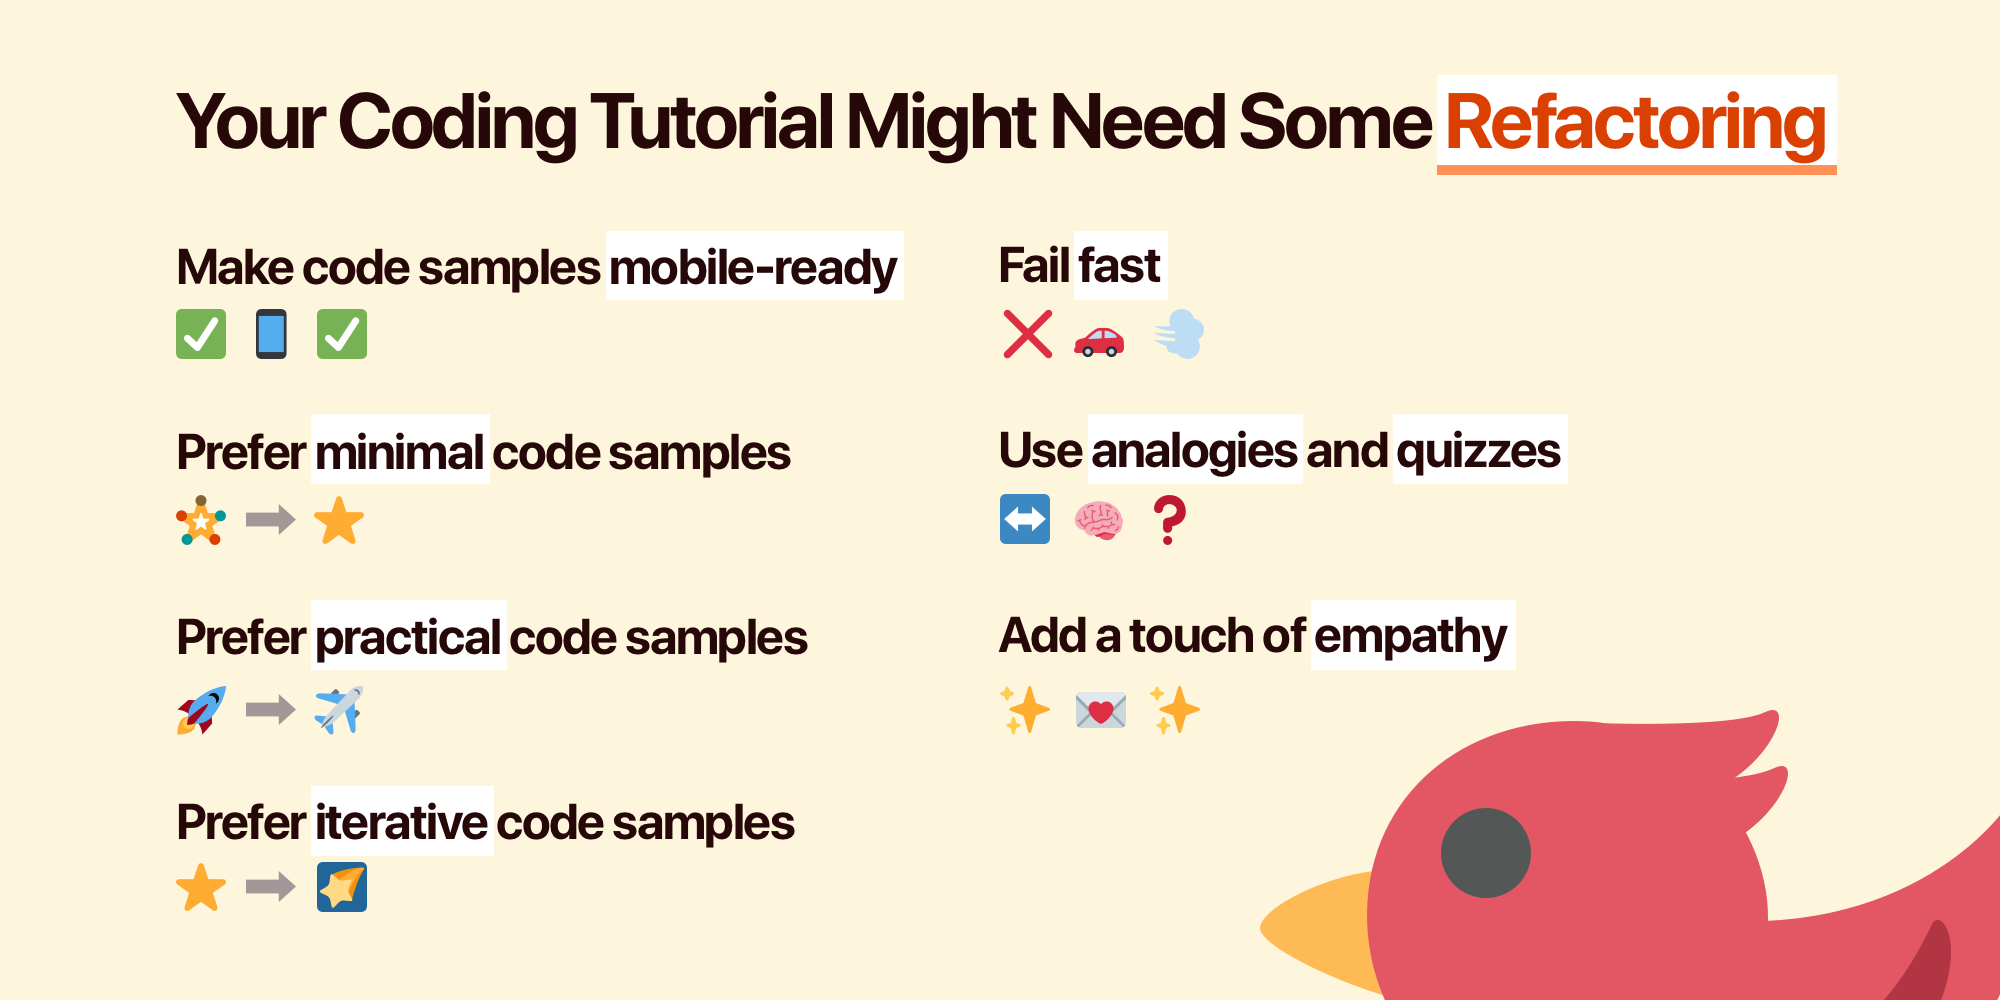
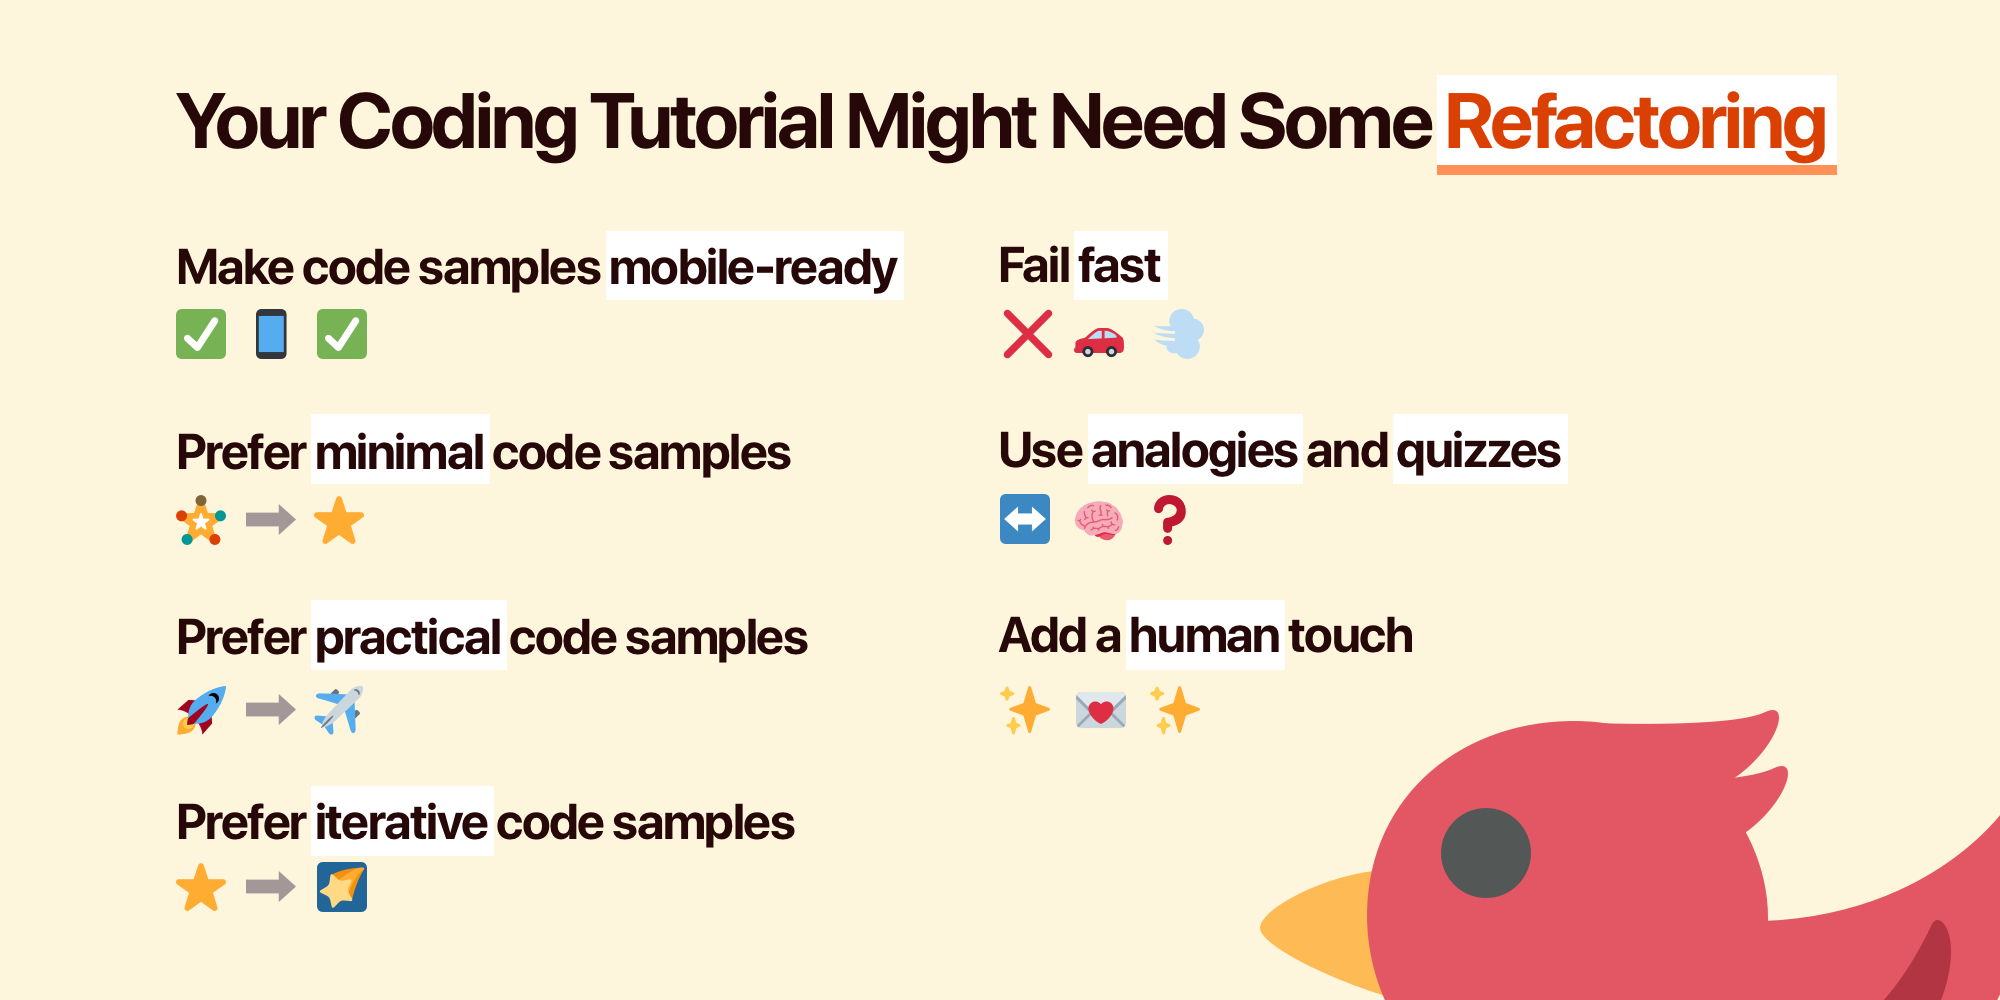
Finish tip 3

Changed region(s): [[0.558, 0.589, 0.775, 0.682]]

diff --git a/src/pages/refactor.tsx b/src/pages/refactor.tsx
@@ -79,15 +79,7 @@ const techniques = [
   {
     title: (
       <>
-        Use <Highlight>arrows</Highlight> and <Highlight>faces</Highlight>
-      </>
-    ),
-    emojis: ['scaryCat', 'singleArrow', 'heartCat']
-  },
-  {
-    title: (
-      <>
-        Add a touch of <Highlight>empathy</Highlight>
+        Add a <Highlight>human</Highlight> touch
       </>
     ),
     emojis: ['sparkles', 'heartLetter', 'sparkles']
@@ -96,7 +88,7 @@ const techniques = [
 
 const RefactorSubtitle = ({ index }: { index: number }) => (
   <ForegroundHighlight color="gray">
-    Refactoring Tip <ForegroundHighlight>{index + 1}</ForegroundHighlight> of 8:
+    Refactoring Tip <ForegroundHighlight>{index + 1}</ForegroundHighlight> of 7:
   </ForegroundHighlight>
 )
 
@@ -163,7 +155,7 @@ const Page = () => (
               </Highlight>{' '}
             </P>
             <P>
-              So, in this article, I’ll share <strong>eight</strong> tips on
+              So, in this article, I’ll share <strong>seven</strong> tips on
               refactoring coding tutorials. I’ve used these techniques on my own
               tutorials to make them more reader-friendly. Here’s the list:
             </P>
@@ -714,18 +706,6 @@ const Page = () => (
               . There’s no good reason why this API should exist.
             </P>
             <P>
-              It <em>could</em> have been useful if you could pass both a{' '}
-              <Code>number</Code> and a <Code>string</Code>, and have it repeat
-              the string the specified number of times (see below). But that’s
-              not what we have.
-            </P>
-            <CodeBlock
-              snippet={snippets.bxzx}
-              shouldHighlight={(lineIndex, tokenIndex) =>
-                lineIndex === 3 && tokenIndex >= 6 && tokenIndex <= 9
-              }
-            />
-            <P>
               <strong>The bottom line:</strong>{' '}
               <Code>padLeft(value, padding)</Code> is useful if{' '}
               <Code>padding</Code> is <Code>number</Code> but is{' '}
@@ -744,10 +724,88 @@ const Page = () => (
                 come up with a <em>practical</em> code sample where{' '}
                 <strong>X</strong> is <em>actually</em> useful in solving the
                 problem.
+              </Highlight>
+            </P>
+            <P>
+              By showing a practical example,{' '}
+              <Highlight>
+                readers will understand why <strong>X</strong> is worth
+                learning.
               </Highlight>{' '}
+              If you show them a useless example, they’d be like,{' '}
+              <em>
+                “What’s the point of learning <strong>X</strong>?”
+              </em>
+            </P>
+            <P>
+              <strong>Example:</strong> If I were to explain how to use{' '}
+              <Code>number | string</Code> in TypeScript, instead of the earlier{' '}
+              <Code>padLeft()</Code> example, I would use the following{' '}
+              <Code>
+                <strong>paddingLeftCss()</strong>
+              </Code>{' '}
+              function:
+            </P>
+            <CodeBlock snippet={snippets.hfdq} />
+            <P>
+              <Code>paddingLeftCss()</Code> can take a <Code>number</Code> or{' '}
+              <Code>string</Code>:
+            </P>
+            <Ul>
+              <UlLi>
+                If it’s <Code>number</Code>, it returns{' '}
+                <Code>padding-left</Code> CSS that’s a multiple of a predefined
+                spacing unit. In this case, <Code>1 = 0.25rem</Code>,{' '}
+                <Code>2 = 0.5rem</Code>, etc. This would be helpful for visual
+                consistency when designing UI.
+              </UlLi>
+              <UlLi>
+                If it’s <Code>string</Code>, it just uses that string as{' '}
+                <Code>padding-left</Code>.
+              </UlLi>
+            </Ul>
+            <P>
+              This is similar to how UI libraries like{' '}
+              <A href="https://github.com/styled-system/styled-system">
+                styled-system
+              </A>{' '}
+              work. In other words, it’s a <strong>practical</strong> example.{' '}
+              <Highlight>
+                It <em>actually makes sense</em> to have the parameter be either{' '}
+                <Code>number</Code> or <Code>string</Code>,
+              </Highlight>{' '}
+              unlike the previous example.
+            </P>
+            <Hr />
+            <P>
+              <strong>To summarize, always ask yourself:</strong>{' '}
+              <Highlight>
+                Is my code example practical? Would anyone ever write code like
+                this?
+              </Highlight>
             </P>
           </>
-        )
+        ),
+        footer: {
+          content: (
+            <>
+              <P>
+                <Code color="white75">padLeft()</Code> <em>could</em> have been
+                useful if you could pass both a{' '}
+                <Code color="white75">number</Code> and a{' '}
+                <Code color="white75">string</Code>, and have it repeat the
+                string the specified number of times (see below). But that’s not
+                what we had.
+              </P>
+              <CodeBlock
+                snippet={snippets.bxzx}
+                shouldHighlight={(lineIndex, tokenIndex) =>
+                  lineIndex === 3 && tokenIndex >= 6 && tokenIndex <= 9
+                }
+              />
+            </>
+          )
+        }
       },
       {
         ...refactoringCardProps(3),
@@ -893,14 +951,6 @@ const Page = () => (
         content: (
           <>
             <EmojiSeparator emojis={techniques[6].emojis} />
-          </>
-        )
-      },
-      {
-        ...refactoringCardProps(7),
-        content: (
-          <>
-            <EmojiSeparator emojis={techniques[7].emojis} />
           </>
         )
       }

diff --git a/src/lib/snippets.ts b/src/lib/snippets.ts
@@ -482,6 +482,23 @@ padLeft('Hello world', 'Jim: ')
 
 // Ask yourself: Would you EVER do this?`
 
+export const hfdq = `function paddingLeftCss(val: number | string) {
+  if (typeof val === 'number') {
+    return \`padding-left: \${val * 0.25}rem;\`
+  } else {
+    return \`padding-left: \${val};\`
+  }
+}
+
+// padding-left: 0.25rem;
+paddingLeftCss(1)
+
+// padding-left: 0.5rem;
+paddingLeftCss(2)
+
+// padding-left: 10%;
+paddingLeftCss('10%')`
+
 export const mvsz = `function makePair<F extends number | string, S extends boolean | F>() {}`
 
 export const zgvn = `type Todo = Readonly<{ id: number; text: string; done: boolean; place: Place }>`

diff --git a/snippets/snippets/refactor/hfdq.ts b/snippets/snippets/refactor/hfdq.ts
@@ -1,0 +1,16 @@
+function paddingLeftCss(val: number | string) {
+  if (typeof val === 'number') {
+    return `padding-left: ${val * 0.25}rem;`
+  } else {
+    return `padding-left: ${val};`
+  }
+}
+
+// padding-left: 0.25rem;
+paddingLeftCss(1)
+
+// padding-left: 0.5rem;
+paddingLeftCss(2)
+
+// padding-left: 10%;
+paddingLeftCss('10%')
